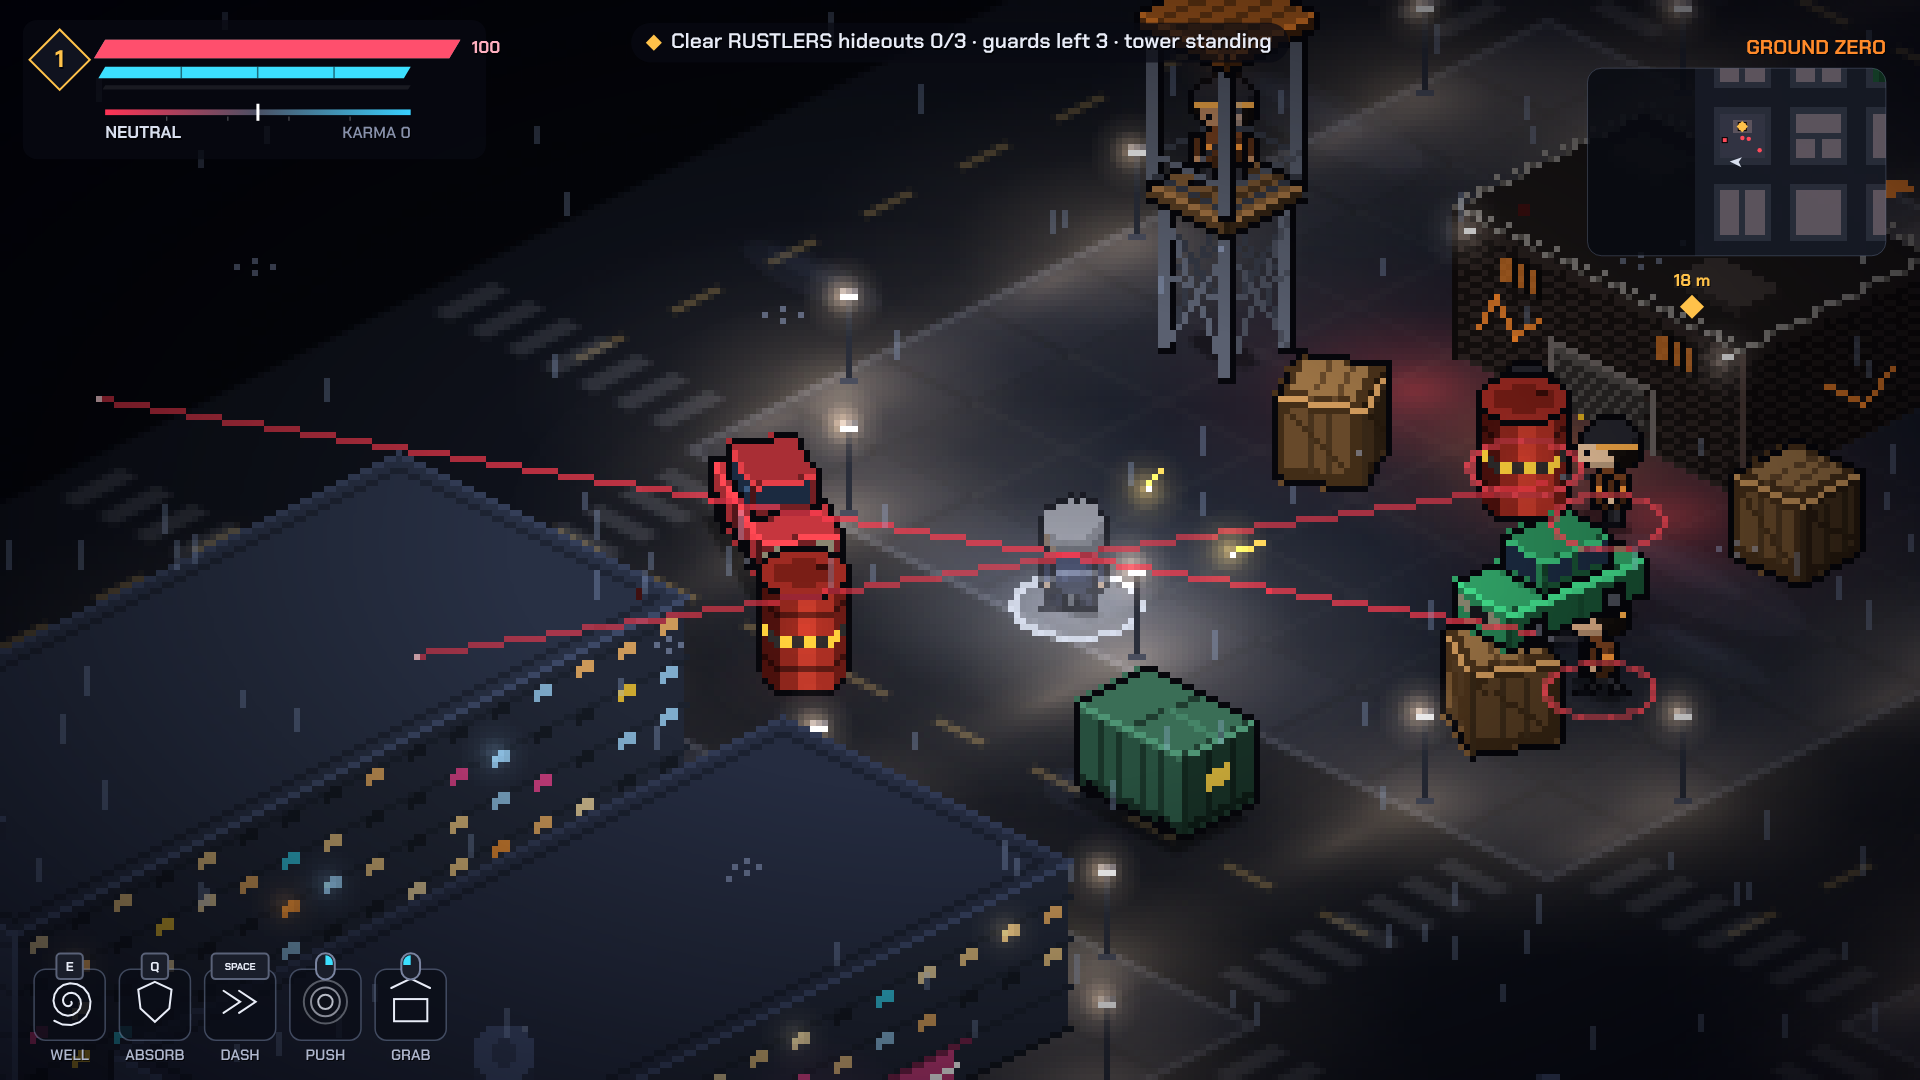
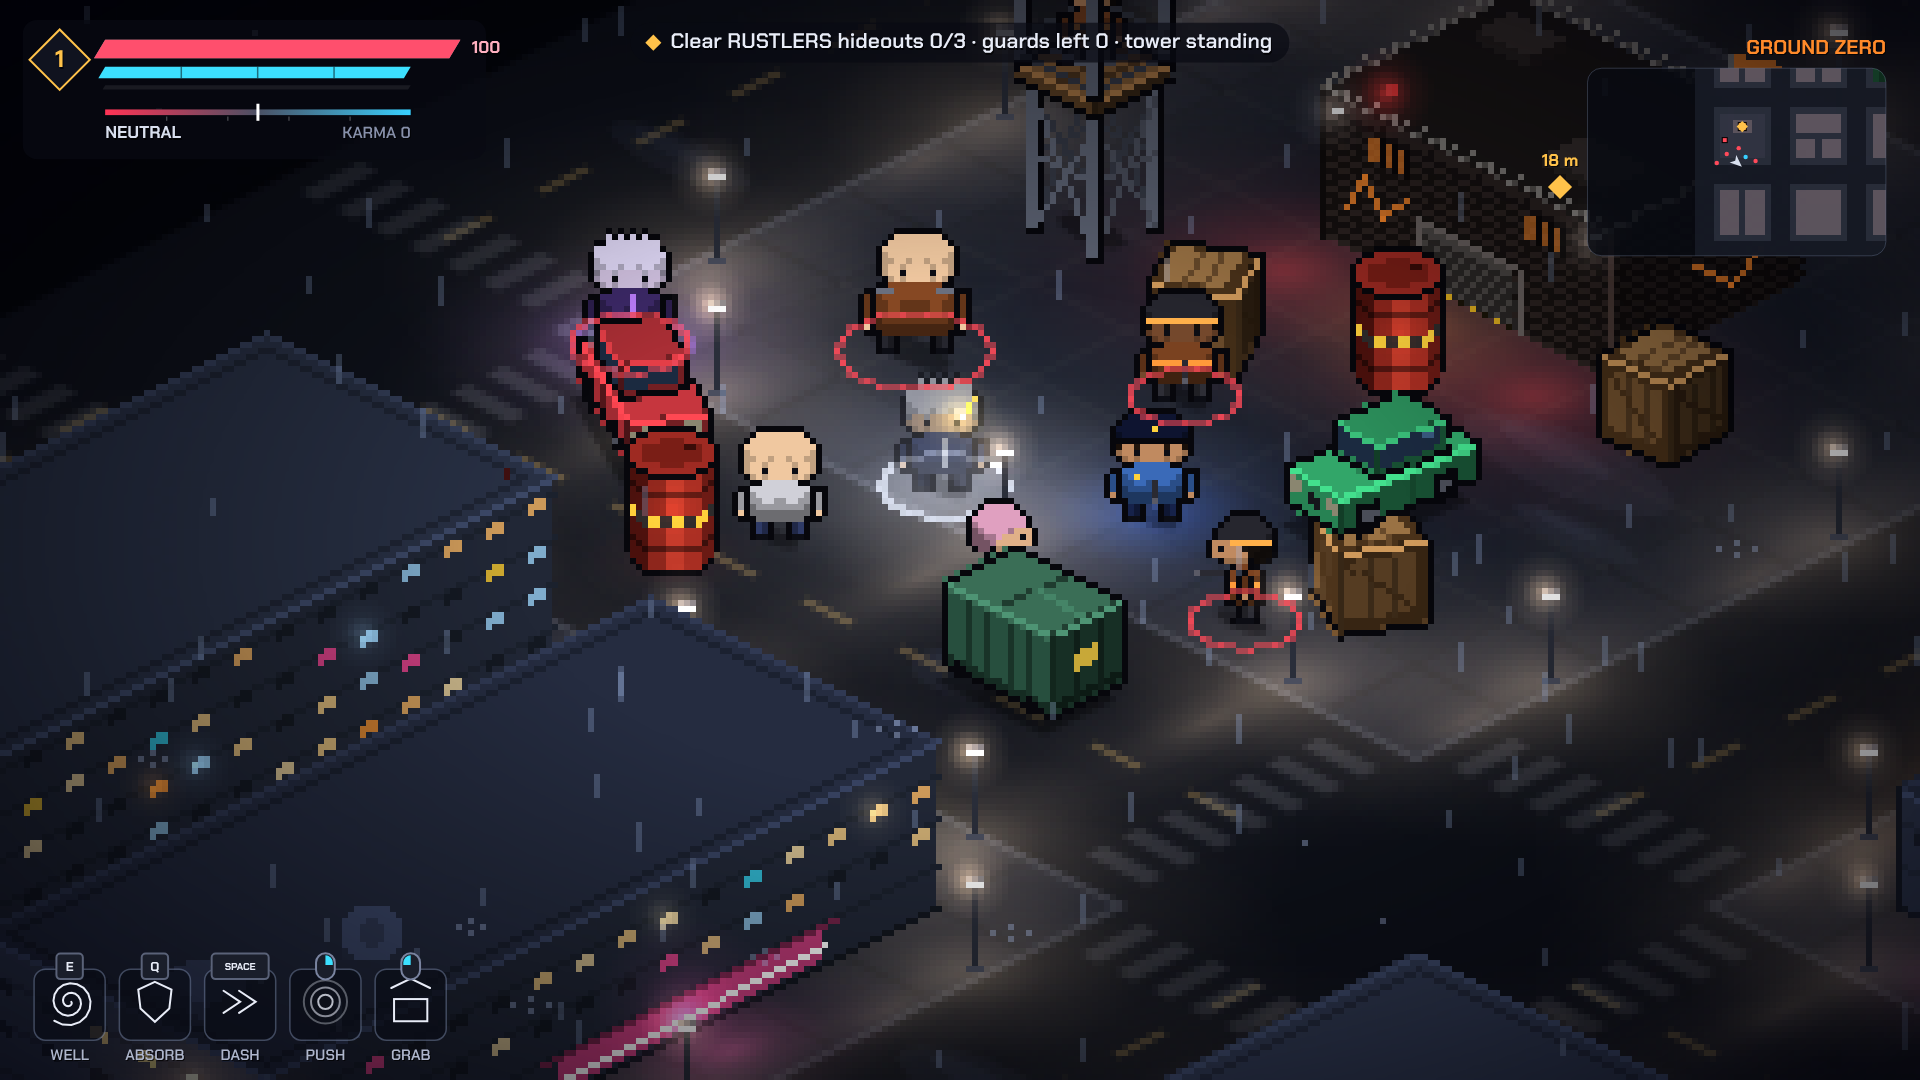
Mock-up: characters redrawn at 32px (mockups/chars32.js) in the double-resolution scene
Claude-Session: https://claude.ai/code/session_01TQrqJid8SEs5fJFtrpg3VS

diff --git a/mockups/chars32.js b/mockups/chars32.js
@@ -1,0 +1,150 @@
+/* MOCK-UP: characters redrawn for double-resolution art (about 24 x 40 pixels instead of 16 x 20).
+   Same inputs as charSprite (facing template, walk frame, outfit options, palette) so it can stand in for it.
+   Each facing is painted part by part (hair, face, torso, arms, legs) and outlined afterwards. */
+function char32(dir, frame, o, pal) {
+  const wd = o.widen || 0, tl = o.tall || 0;                    // brutes and bosses: wider and taller bodies
+  const hw = 7 + Math.round(wd * .5), TT = 17, TB = 28 + tl * 2, LT = TB + 1, LB = LT + 7;
+  const PAD = 5, W = 36 + wd * 2 + (wd ? 2 : 0), H = LB + 5 + PAD, cx = W >> 1;      // PAD: headroom for spiked hair
+  const g = Array.from({ length: H }, () => Array(W).fill(null));
+  const set = (x, y, c) => { y += PAD; if (c && y >= 0 && y < H && x >= 0 && x < W) g[y][x] = c; };
+  const clr = (x, y) => { y += PAD; if (y >= 0 && y < H && x >= 0 && x < W) g[y][x] = null; };
+  const rect = (x0, y0, x1, y1, c) => { for (let y = y0; y <= y1; y++) for (let x = x0; x <= x1; x++) set(x, y, c); };
+  const K = pal.k, EW = pal.k === pal.s ? pal.s : '#f2f4ff', EP = '#16182a';
+  const bald = o.style === 'bald', hood = o.style === 'hood', beanie = o.style === 'beanie', cap = o.style === 'cap', spiky = o.style === 'spiky';
+  const brow = bald || hood ? shade(pal.S, .55) : pal.J, lip = shade(pal.S, .72), skinHi = shade(pal.s, 1.08);
+  const hair = hood ? [pal.C, pal.c, pal.d] : beanie || cap ? [pal.w, pal.w, pal.W] : [pal.h, pal.H, pal.J];
+  const side = dir === 'E', back = dir === 'N' || dir === 'NE', q3 = dir === 'SE' || dir === 'NE';
+  const f = q3 ? 2 : 0;                                         // three-quarter views: features slide toward the facing side
+  const step = frame === 1 ? 1 : frame === 3 ? -1 : 0;
+
+  /* ---------------- legs ---------------- */
+  const shoe = pal.b === pal.k ? '#1c1d2a' : pal.b, sole = '#0a0a10';
+  function leg(x0, x1, lift, toe, dark) {
+    rect(x0, LT, x1, LB - lift, dark ? pal.P : pal.p);
+    rect(x1 - 1, LT, x1, LB - lift, pal.P);                                    // shaded inner side
+    if (!dark) rect(x0, LT + 3, x0, LT + 4, shade(pal.p, 1.25));                // knee catch-light
+    rect(x0 - (toe < 0 ? 1 : 0), LB - lift + 1, x1 + (toe > 0 ? 1 : 0), LB - lift + 2, shoe);
+    rect(x0 - (toe < 0 ? 1 : 0), LB - lift + 2, x1 + (toe > 0 ? 1 : 0), LB - lift + 2, sole);
+    set(x0 + 1, LB - lift + 1, shade(shoe, 1.9));
+  }
+  if (side) {
+    const s = step * 3;
+    if (s) { leg(cx - 2 - s, cx + 1 - s, 1, 1, true); leg(cx - 2 + s, cx + 2 + s, 0, 1, false); }
+    else leg(cx - 2, cx + 2, 0, 1, false);
+  } else {
+    const lw = 4 + Math.round(wd * .34), gap = 1, toe = q3 ? 1 : 0;
+    leg(cx - gap - 1 - lw, cx - gap - 1, step === -1 ? 2 : 0, toe ? toe : -1, false);
+    leg(cx + gap, cx + gap + lw, step === 1 ? 2 : 0, toe ? toe : 1, false);
+  }
+
+  /* ---------------- torso ---------------- */
+  const tw = side ? 4 + Math.round(wd * .4) : hw;
+  rect(cx - tw, TT, cx + tw - 1, TB, pal.c);
+  rect(cx - tw, TT, cx - tw + (side ? 1 : 3), TB, side ? pal.d : pal.C);        // lit side (left), or the back in profile
+  if (side) rect(cx + tw - 3, TT, cx + tw - 1, TB, pal.C); else rect(cx + tw - 3, TT, cx + tw - 1, TB, pal.d);
+  rect(cx - tw, TB - 1, cx + tw - 1, TB - 1, pal.d);                            // hem
+  rect(cx - tw, TB, cx + tw - 1, TB, shade(pal.P, .8));                         // belt
+  if (!back) { set(cx - 1 + (side ? tw - 1 : f), TB, pal.T); set(cx + (side ? tw - 1 : f), TB, pal.T); }
+  clr(cx - tw, TT); clr(cx + tw - 1, TT);                                       // rounded shoulders
+  if (!back && !side) {                                                         // collar, zip, pockets
+    rect(cx - 2 + f, TT, cx + 1 + f, TT, pal.S); set(cx - 1 + f, TT + 1, pal.S); set(cx + f, TT + 1, pal.S);
+    set(cx - 3 + f, TT, pal.T); set(cx + 2 + f, TT, pal.T); set(cx - 2 + f, TT + 1, pal.T); set(cx + 1 + f, TT + 1, pal.T);
+    if (o.zip) rect(cx - 1 + f, TT + 2, cx - 1 + f, TB - 2, pal.T);
+    else rect(cx - 1 + f, TT + 2, cx - 1 + f, TB - 2, pal.d);
+    rect(cx - 5, TB - 4, cx - 3, TB - 4, pal.d); rect(cx + 2 + f, TB - 4, cx + 4, TB - 4, shade(pal.d, .8));
+    if (o.badge) { rect(cx + 2 + f, TT + 3, cx + 3 + f, TT + 4, pal.Q); set(cx + 2 + f, TT + 3, '#ffffff'); }
+  } else if (back) { rect(cx - 1, TT + 1, cx - 1, TB - 2, pal.d); rect(cx - 3, TT, cx + 2, TT, pal.d); }
+  if (o.stripe) rect(cx - tw, TT + 5, cx + tw - 1, TT + 6, pal.T);
+  if (o.pads && !side) { rect(cx - tw - 2, TT - 1, cx - tw + 3, TT + 1, pal.T); rect(cx + tw - 4, TT - 1, cx + tw + 1, TT + 1, shade(pal.T, .75)); rect(cx - tw - 2, TT - 1, cx - tw + 3, TT - 1, shade(pal.T, 1.3)); }
+  if (o.pads && side) { rect(cx - 3, TT - 1, cx + 2, TT + 1, pal.T); rect(cx - 3, TT - 1, cx + 2, TT - 1, shade(pal.T, 1.3)); }
+
+  /* ---------------- arms ---------------- */
+  const up = o.armsUp ? 9 : 0, aLen = 10 + tl;
+  function arm(x0, w, dy, col, colD) {
+    const y0 = TT + 1 + dy - up, y1 = y0 + aLen - 1;
+    if (up) { rect(x0, TT - 10, x0 + w - 1, TT + 2, col); rect(x0 + w - 1, TT - 10, x0 + w - 1, TT + 2, colD); rect(x0, TT - 12, x0 + w - 1, TT - 11, pal.n); return; }
+    rect(x0, y0, x0 + w - 1, y1, col); rect(x0 + w - 1, y0, x0 + w - 1, y1, colD);
+    rect(x0, y1 - 1, x0 + w - 1, y1 - 1, pal.T === pal.C ? colD : shade(colD, .9));   // cuff
+    rect(x0, y1 + 1, x0 + w - 1, y1 + 2, pal.n); set(x0 + w - 1, y1 + 2, shade(pal.n, .8));
+  }
+  if (side) {
+    const ax = cx - 1 + step * 2;
+    rect(ax - 1, TT + 1, ax + 3, TT + aLen + 3, K);                                    // dark edge so the arm reads over the torso
+    arm(ax, 3, 0, pal.C, pal.c);
+  } else {
+    const aw = 3 + (wd > 2 ? 1 : 0);
+    arm(cx - tw - aw, aw, step === 1 ? 1 : 0, pal.C, pal.c);
+    arm(cx + tw, aw, step === -1 ? 1 : 0, pal.c, pal.d);
+  }
+
+  /* ---------------- head ---------------- */
+  const hx0 = cx - 7 + (side ? 1 : 0), hx1 = cx + 6, hy0 = 3, hy1 = 15;
+  rect(cx - 2 + (side ? 1 : f), 16, cx + 1 + (side ? 1 : f), 16, pal.S);                // neck
+  rect(hx0, hy0, hx1, hy1, pal.s);
+  rect(hx1 - 1, hy0, hx1, hy1, pal.S); rect(hx0, hy1 - 1, hx1, hy1, pal.S);             // jaw and far-cheek shade
+  rect(hx0 + 2, 8, hx0 + 3, 9, skinHi);
+  for (const [x, y] of [[hx0, hy0], [hx0 + 1, hy0], [hx0, hy0 + 1], [hx1, hy0], [hx1 - 1, hy0], [hx1, hy0 + 1], [hx0, hy1], [hx0 + 1, hy1], [hx0, hy1 - 1], [hx1, hy1], [hx1 - 1, hy1], [hx1, hy1 - 1]]) clr(x, y);
+  if (side) { clr(hx0, hy1 - 2); clr(hx0 + 1, hy1 - 1); clr(hx0 + 2, hy1); set(hx1 + 1, 11, pal.s); set(hx1 + 1, 12, pal.S); }   // nose
+  // face
+  if (!back) {
+    if (side) {
+      rect(cx + 2, 9, cx + 5, 9, brow);
+      rect(cx + 3, 10, cx + 4, 12, EW); rect(cx + 4, 10, cx + 4, 11, EP); set(cx + 3, 12, pal.S); set(cx + 4, 12, pal.S);
+      rect(cx + 4, 14, cx + 5, 14, lip);
+      rect(cx - 2, 10, cx - 1, 12, pal.S); set(cx - 2, 10, shade(pal.S, .8));                                    // ear
+    } else {
+      const lx = cx - 5 + f, rx = cx + 2 + f, rw = q3 ? 1 : 2;
+      rect(lx - 1, 9, lx + 2, 9, brow); rect(rx, 9, rx + rw + 1, 9, brow);
+      rect(lx, 10, lx + 2, 12, EW); rect(lx + 1, 10, lx + 2, 12, EP); set(lx + 1, 10, '#ffffff'); set(lx, 12, pal.S);
+      rect(rx, 10, rx + rw, 12, EW); rect(rx, 10, rx + rw - 1, 12, EP); if (rw > 1) set(rx, 10, '#ffffff'); set(rx + rw, 12, pal.S);
+      set(cx + f, 12, pal.S);                                                                                    // nose shadow
+      rect(cx - 1 + f, 14, cx + f, 14, lip);
+      if (!q3) { rect(hx0 - 1, 10, hx0 - 1, 11, pal.S); rect(hx1 + 1, 10, hx1 + 1, 11, shade(pal.S, .85)); }      // ears
+      else rect(hx0, 10, hx0, 12, pal.S);
+    }
+  } else if (dir === 'NE') { rect(hx1 - 1, 9, hx1, 13, pal.s); rect(hx1 - 3, 10, hx1 - 2, 12, pal.S); set(hx1, 10, brow); }
+  // hair / headwear
+  if (!bald) {
+    const [h1, h2, h3] = hair;
+    const top = cap || beanie ? 6 : 7;
+    rect(hx0, hy0, hx1, top, h2); rect(hx0 + 1, hy0, hx1 - 3, hy0 + 2, h1); rect(hx1 - 2, hy0 + 1, hx1, top, h3);
+    rect(hx0 - 0, hy0 - 1, hx1, hy0 - 1, h2); rect(hx0 + 2, hy0 - 1, hx1 - 3, hy0 - 1, h1);
+    clr(hx0, hy0 - 1); clr(hx0 + 1, hy0 - 1); clr(hx1, hy0 - 1); clr(hx1 - 1, hy0 - 1); clr(hx0, hy0); clr(hx1, hy0);
+    if (back) { rect(hx0, top, hx1, 13, h2); rect(hx1 - 2, top, hx1, 13, h3); rect(hx0, 12, hx1, 13, h3); rect(hx0 + 2, 5, hx0 + 4, 9, h1); clr(hx0, 13); clr(hx1, 13);
+      if (dir === 'NE') { rect(hx1 - 1, 9, hx1, 13, pal.s); set(hx1 - 2, 10, pal.S); set(hx1 - 2, 11, pal.S); } }
+    else if (side) { rect(hx0, top, cx - 3, 13, h2); rect(hx0, 11, cx - 3, 13, h3); rect(hx0 + 1, 5, hx0 + 2, 9, h1); clr(hx0, 13); rect(cx - 2, 8, cx - 1, 9, h2); rect(cx, 8, cx + 4, 8, h2); set(cx + 5, 8, h3); }
+    else {
+      rect(hx0, top, hx0 + 1 + (q3 ? 1 : 0), 10, h2); if (!q3) rect(hx1 - 1, top, hx1, 10, h3); else rect(hx1, top, hx1, 9, h3);
+      for (let x = hx0 + 2; x <= hx1 - 2; x++) if ((x + f) % 3 !== 0) set(x, 8, x > cx + 2 ? h3 : h2);          // fringe
+    }
+    if (spiky) {   // tall swept spikes: [base x, height]
+      const sp = side ? [[hx0, 3], [hx0 + 3, 5], [hx0 + 6, 6], [hx0 + 9, 4], [hx0 + 11, 2]] : back ? [[hx0 + 1, 3], [hx0 + 4, 5], [hx0 + 7, 6], [hx0 + 10, 4]] : [[hx0, 3], [hx0 + 3, 5], [hx0 + 6, 6], [hx0 + 9, 5], [hx0 + 12, 3]];
+      for (const [x, n] of sp) for (let i = 0; i < n; i++) { const y = hy0 - 2 - i, lean = i > n - 3 ? 1 : 0; set(x + lean, y, h1); if (i < n - 1) set(x + 1 + lean, y, i < n - 2 ? h2 : h1); if (i < n - 3) set(x + 2, y, h3); }
+      if (!back && !side) { set(hx0 + 3, 9, h2); set(hx0 + 4, 9, h2); set(hx0 + 4, 10, h3); set(cx + 1 + f, 9, h2); }   // fringe points over the brow
+    }
+    if (beanie) { rect(hx0, top, hx1, top + 1, pal.Y); rect(hx1 - 2, top, hx1, top + 1, shade(pal.Y, .7)); rect(cx - 1, hy0 - 2, cx, hy0 - 2, h2);
+      if (back) { rect(hx0, top + 2, hx1, 13, pal.J); rect(hx0, 12, hx1, 13, shade(pal.J, .8)); clr(hx0, 13); clr(hx1, 13); } }
+    if (cap) {
+      rect(hx0, top, hx1, top, shade(pal.W, .7));
+      if (side) rect(cx + 2, top + 1, hx1 + 3, top + 1, pal.W); else if (!back) { rect(hx0 - 1 + f, top + 1, hx1 + 1 + (q3 ? 2 : 0), top + 1, pal.W); rect(hx0 + f, top + 2, hx1 + (q3 ? 1 : 0), top + 2, shade(pal.W, .6)); rect(cx - 1 + f, hy0 + 1, cx + f, hy0 + 2, pal.Q); }
+      else { rect(hx0, top + 1, hx1, 12, pal.J); rect(hx0, 11, hx1, 12, shade(pal.J, .8)); }
+    }
+    if (hood) {
+      if (!back) { rect(hx0 - 1, 5, hx0 + (side ? 2 : 0), 15, h2); if (!side) rect(hx1, 5, hx1 + 1, 15, h3); rect(hx0, hy0 - 1, hx1, hy0 + 3, h2); rect(hx0 + 2, hy0 - 1, hx1 - 4, hy0, h1); rect(hx0 + 1, hy1 + 1, hx1 - 1, hy1 + 1, h3); clr(hx0, hy0 - 1); clr(hx1, hy0 - 1); }
+      else { rect(hx0 - 1, 5, hx1 + 1, 15, h2); rect(hx1 - 1, 5, hx1 + 1, 15, h3); rect(hx0 + 1, hy1 + 1, hx1 - 1, hy1 + 1, h3); rect(cx - 1, 6, cx - 1, 14, h3); }
+    }
+  } else {
+    rect(hx0 + 3, hy0, hx0 + 6, hy0, skinHi); rect(hx0 + 2, hy0 + 1, hx0 + 4, hy0 + 2, skinHi);                  // shine on a shaved head
+    if (back) { rect(hx0 + 1, 12, hx1 - 1, 12, pal.S); }
+  }
+
+  /* ---------------- outline, then to a canvas ---------------- */
+  const out = g.map(r => r.slice());
+  for (let y = 0; y < H; y++) for (let x = 0; x < W; x++) {
+    if (g[y][x]) continue;
+    if ((g[y - 1] && g[y - 1][x]) || (g[y + 1] && g[y + 1][x]) || g[y][x - 1] || g[y][x + 1]) out[y][x] = K;
+  }
+  const c = document.createElement('canvas'); c.width = W; c.height = H; const x2 = c.getContext('2d');
+  for (let y = 0; y < H; y++) for (let x = 0; x < W; x++) if (out[y][x]) { x2.fillStyle = out[y][x]; x2.fillRect(x, y, 1, 1); }
+  return c;
+}

diff --git a/mockups/hires_mock.py b/mockups/hires_mock.py
@@ -1,6 +1,6 @@
 """Mock-up only: builds a double-resolution variant of dist/kinetic_city.html (640x360 art instead of 320x180).
 Everything drawn from world coordinates gets twice the pixels; things drawn in fixed pixels are patched here
-(characters are an automatic 2x upscale of today's sprites, standing in for redrawn 32px ones).
+(characters use the redrawn sprites in mockups/chars32.js).
 Usage: python3 mockups/hires_mock.py <out.html>"""
 import sys
 s = open('dist/kinetic_city.html').read()
@@ -9,21 +9,9 @@ def sub(a, b, n=1):
     assert s.count(a) == n, (a, s.count(a)); s = s.replace(a, b)
 sub("const ART_W = 320, ART_H = 180, ISO_K = .5, ISO_KZ = .25, SPR_K = .6;", "const ART_W = 640, ART_H = 360, ISO_K = 1, ISO_KZ = .5, SPR_K = 1.2;")
 sub("const PROP_KZ = .75;", "const PROP_KZ = 1.5;")
-# characters: 2x (EPX) of the current sprites
-sub("  sprCache.set(key, c); return c;\n}", """  c = epx2(c); sprCache.set(key, c); return c;
-}
-function epx2(src) {
-  const w = src.width, h = src.height, d = new Uint32Array(src.getContext('2d').getImageData(0, 0, w, h).data.buffer);
-  const out = document.createElement('canvas'); out.width = w * 2; out.height = h * 2; const o = out.getContext('2d'), im = o.createImageData(w * 2, h * 2), q = new Uint32Array(im.data.buffer);
-  const at = (x, y) => x < 0 || y < 0 || x >= w || y >= h ? 0 : d[y * w + x];
-  for (let y = 0; y < h; y++) for (let x = 0; x < w; x++) {
-    const P = at(x, y), A = at(x, y - 1), B = at(x + 1, y), C = at(x - 1, y), D = at(x, y + 1);
-    let p1 = P, p2 = P, p3 = P, p4 = P;
-    if (C === A && C !== D && A !== B) p1 = A; if (A === B && A !== C && B !== D) p2 = B; if (D === C && D !== B && C !== A) p3 = C; if (B === D && B !== A && D !== C) p4 = D;
-    const i = y * 2 * w * 2 + x * 2; q[i] = p1; q[i + 1] = p2; q[i + w * 2] = p3; q[i + w * 2 + 1] = p4;
-  }
-  o.putImageData(im, 0, 0); return out;
-}""")
+# characters: redrawn at double size (mockups/chars32.js) in place of the 16px templates
+sub("  const g = buildCharGrid(dir, frame, o);\n  c = document.createElement('canvas'); c.width = g[0].length;", "  c = char32(dir, frame, o, pal); sprCache.set(key, c); return c;\n  const g = buildCharGrid(dir, frame, o);\n  c = document.createElement('canvas'); c.width = g[0].length;")
+sub("const sprCache = new Map();", open('mockups/chars32.js').read() + "\nconst sprCache = new Map();")
 sub("const a = isoXY(e.x, e.y, 0), lift = Math.round((e.z || 0) * .5), t = G.time;", "const a = isoXY(e.x, e.y, 0), lift = Math.round((e.z || 0) * 1), t = G.time;")
 sub("const hx = a[0] + gx / gl * 4, hy = a[1] - 8 - lift + gy / gl * 2; iline([hx, hy], [hx + gx / gl * 4, hy + gy / gl * 3], '#2a2a32'); ipx(hx + gx / gl * 4, hy + gy / gl * 3, '#5a5a66');",
     "const hx = a[0] + gx / gl * 8, hy = a[1] - 16 - lift + gy / gl * 4; for (let w = 0; w < 2; w++) iline([hx, hy + w], [hx + gx / gl * 8, hy + w + gy / gl * 6], '#2a2a32'); ipx(hx + gx / gl * 8, hy + gy / gl * 6, '#5a5a66');")
